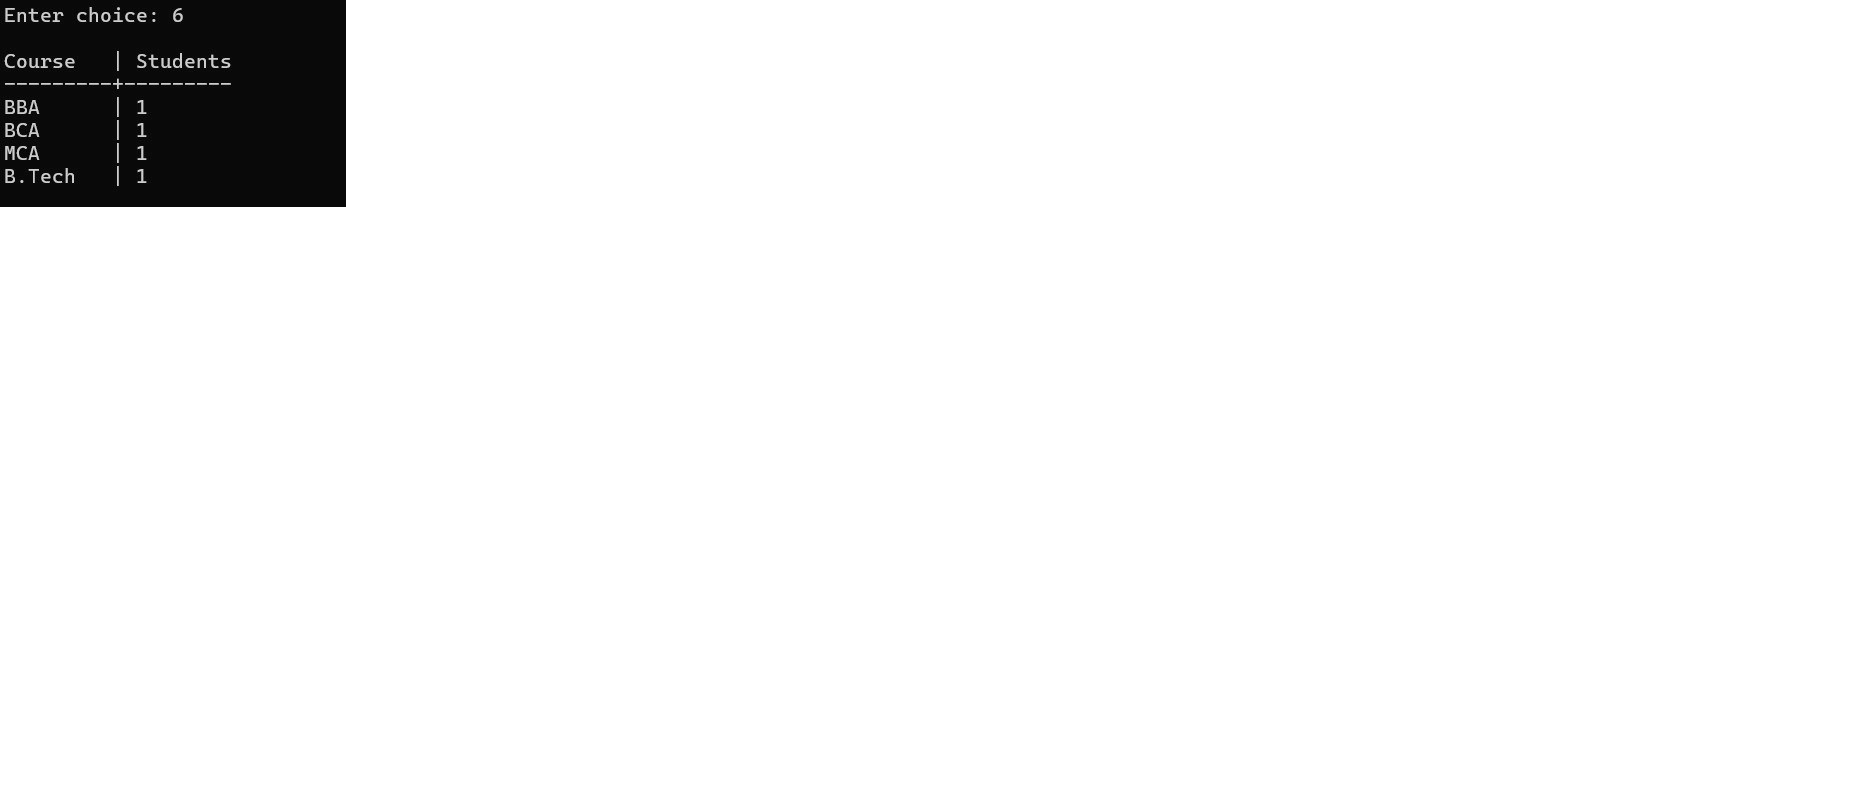
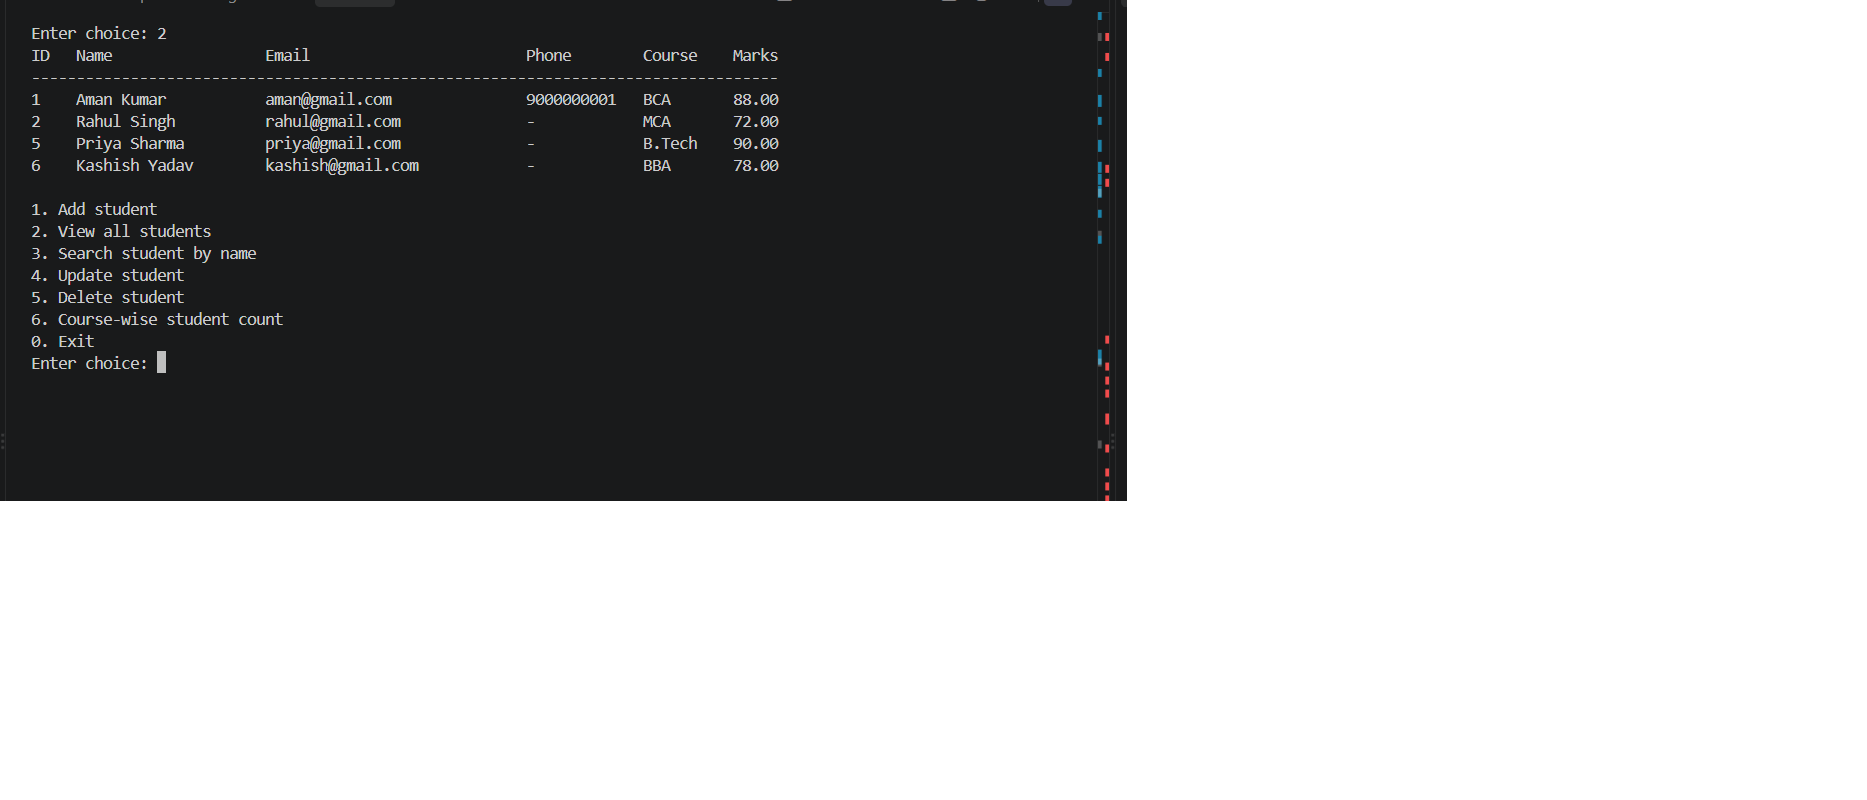
Add phone field with validation

diff --git a/src/Main.java b/src/Main.java
@@ -52,10 +52,13 @@ public class Main {
     private static void addStudent() throws SQLException {
         String name = readName("Name: ");
         String email = readEmail("Email: ");
+        String phone = readPhone("Phone (10 digits): ");
         int courseId = readCourseId();
         double marks = readMarks("Marks (0-100): ");
 
-        dao.addStudent(new Student(name, email, courseId, marks));
+        Student student = new Student(name, email, courseId, marks);
+        student.setPhone(phone);
+        dao.addStudent(student);
         System.out.println("Student added successfully.");
     }
 
@@ -95,6 +98,14 @@ public class Main {
             return;
         }
 
+        String phone = readOptional("Phone [" + (old.getPhone() == null ? "-" : old.getPhone()) + "]: ");
+        if (phone.isEmpty()) {
+            phone = old.getPhone();
+        } else if (!Validator.isValidPhone(phone)) {
+            System.out.println("Invalid phone. Update cancelled.");
+            return;
+        }
+
         int courseId = old.getCourseId();
         String courseInput = readOptional("Change course? (y/n): ");
         if (courseInput.equalsIgnoreCase("y")) {
@@ -116,7 +127,9 @@ public class Main {
             }
         }
 
-        dao.updateStudent(id, new Student(name.trim(), email, courseId, marks));
+        Student updated = new Student(name.trim(), email, courseId, marks);
+        updated.setPhone(phone);
+        dao.updateStudent(id, updated);
         System.out.println("Student updated successfully.");
     }
 
@@ -146,8 +159,9 @@ public class Main {
             System.out.println("No students found.");
             return;
         }
-        System.out.printf("%-4s %-20s %-28s %-8s %6s%n", "ID", "Name", "Email", "Course", "Marks");
-        System.out.println("-".repeat(70));
+        System.out.printf("%-4s %-20s %-28s %-12s %-8s %6s%n",
+                "ID", "Name", "Email", "Phone", "Course", "Marks");
+        System.out.println("-".repeat(83));
         for (Student s : students) {
             System.out.println(s);
         }
@@ -188,6 +202,17 @@ public class Main {
                 return email;
             }
             System.out.println("Invalid email format. Example: name@example.com");
+        }
+    }
+
+    private static String readPhone(String prompt) {
+        while (true) {
+            System.out.print(prompt);
+            String phone = sc.nextLine().trim();
+            if (Validator.isValidPhone(phone)) {
+                return phone;
+            }
+            System.out.println("Invalid phone. Enter 10 digits starting with 6-9.");
         }
     }
 

diff --git a/src/StudentDAO.java b/src/StudentDAO.java
@@ -15,18 +15,19 @@ import java.util.Map;
 public class StudentDAO {
 
     private static final String SELECT_WITH_COURSE =
-            "SELECT s.id, s.name, s.email, s.course_id, c.course_name, s.marks " +
+            "SELECT s.id, s.name, s.email, s.phone, s.course_id, c.course_name, s.marks " +
             "FROM students s JOIN courses c ON s.course_id = c.course_id ";
 
     // INSERT
     public void addStudent(Student s) throws SQLException {
-        String sql = "INSERT INTO students (name, email, course_id, marks) VALUES (?, ?, ?, ?)";
+        String sql = "INSERT INTO students (name, email, phone, course_id, marks) VALUES (?, ?, ?, ?, ?)";
         try (Connection con = DBConnection.getConnection();
              PreparedStatement ps = con.prepareStatement(sql)) {
             ps.setString(1, s.getName());
             ps.setString(2, s.getEmail());
-            ps.setInt(3, s.getCourseId());
-            ps.setDouble(4, s.getMarks());
+            ps.setString(3, s.getPhone());
+            ps.setInt(4, s.getCourseId());
+            ps.setDouble(5, s.getMarks());
             ps.executeUpdate();
         }
     }
@@ -78,14 +79,15 @@ public class StudentDAO {
 
     // UPDATE (returns number of rows changed)
     public int updateStudent(int id, Student s) throws SQLException {
-        String sql = "UPDATE students SET name = ?, email = ?, course_id = ?, marks = ? WHERE id = ?";
+        String sql = "UPDATE students SET name = ?, email = ?, phone = ?, course_id = ?, marks = ? WHERE id = ?";
         try (Connection con = DBConnection.getConnection();
              PreparedStatement ps = con.prepareStatement(sql)) {
             ps.setString(1, s.getName());
             ps.setString(2, s.getEmail());
-            ps.setInt(3, s.getCourseId());
-            ps.setDouble(4, s.getMarks());
-            ps.setInt(5, id);
+            ps.setString(3, s.getPhone());
+            ps.setInt(4, s.getCourseId());
+            ps.setDouble(5, s.getMarks());
+            ps.setInt(6, id);
             return ps.executeUpdate();
         }
     }
@@ -132,12 +134,14 @@ public class StudentDAO {
 
     // Converts one row of ResultSet into a Student object
     private Student mapRow(ResultSet rs) throws SQLException {
-        return new Student(
+        Student s = new Student(
                 rs.getInt("id"),
                 rs.getString("name"),
                 rs.getString("email"),
                 rs.getInt("course_id"),
                 rs.getString("course_name"),
                 rs.getDouble("marks"));
+        s.setPhone(rs.getString("phone"));
+        return s;
     }
 }

diff --git a/src/Student.java b/src/Student.java
@@ -1,11 +1,9 @@
-/**
- * Student "is a" Person (inheritance) with extra details.
- */
 public class Student extends Person {
     private int id;
     private int courseId;
     private String courseName;   // filled when we read from DB using JOIN
     private double marks;
+    private String phone;
 
     // Used when reading an existing student from the database
     public Student(int id, String name, String email, int courseId, String courseName, double marks) {
@@ -31,9 +29,12 @@ public class Student extends Person {
     public double getMarks() { return marks; }
     public void setMarks(double marks) { this.marks = marks; }
 
+    public String getPhone() { return phone; }
+    public void setPhone(String phone) { this.phone = phone; }
+
     @Override
     public String toString() {
-        return String.format("%-4d %-20s %-28s %-8s %6.2f",
-                id, getName(), getEmail(), courseName, marks);
+        return String.format("%-4d %-20s %-28s %-12s %-8s %6.2f",
+                id, getName(), getEmail(), phone == null ? "-" : phone, courseName, marks);
     }
 }

diff --git a/src/Validator.java b/src/Validator.java
@@ -15,4 +15,9 @@ public class Validator {
     public static boolean isValidMarks(double marks) {
         return marks >= 0 && marks <= 100;
     }
+
+    public static boolean isValidPhone(String phone) {
+        // 10-digit Indian mobile number, starts with 6-9
+        return phone != null && phone.matches("[6-9][0-9]{9}");
+    }
 }

diff --git a/README.md b/README.md
@@ -8,6 +8,7 @@ A console-based Java application to manage student records using **Java, JDBC an
 * Search students by name
 * Course-wise student count report
 * Input validation (name, email, marks) and exception handling
+- Phone number validation (10-digit Indian mobile number)
 
 ## Tech Stack
 
